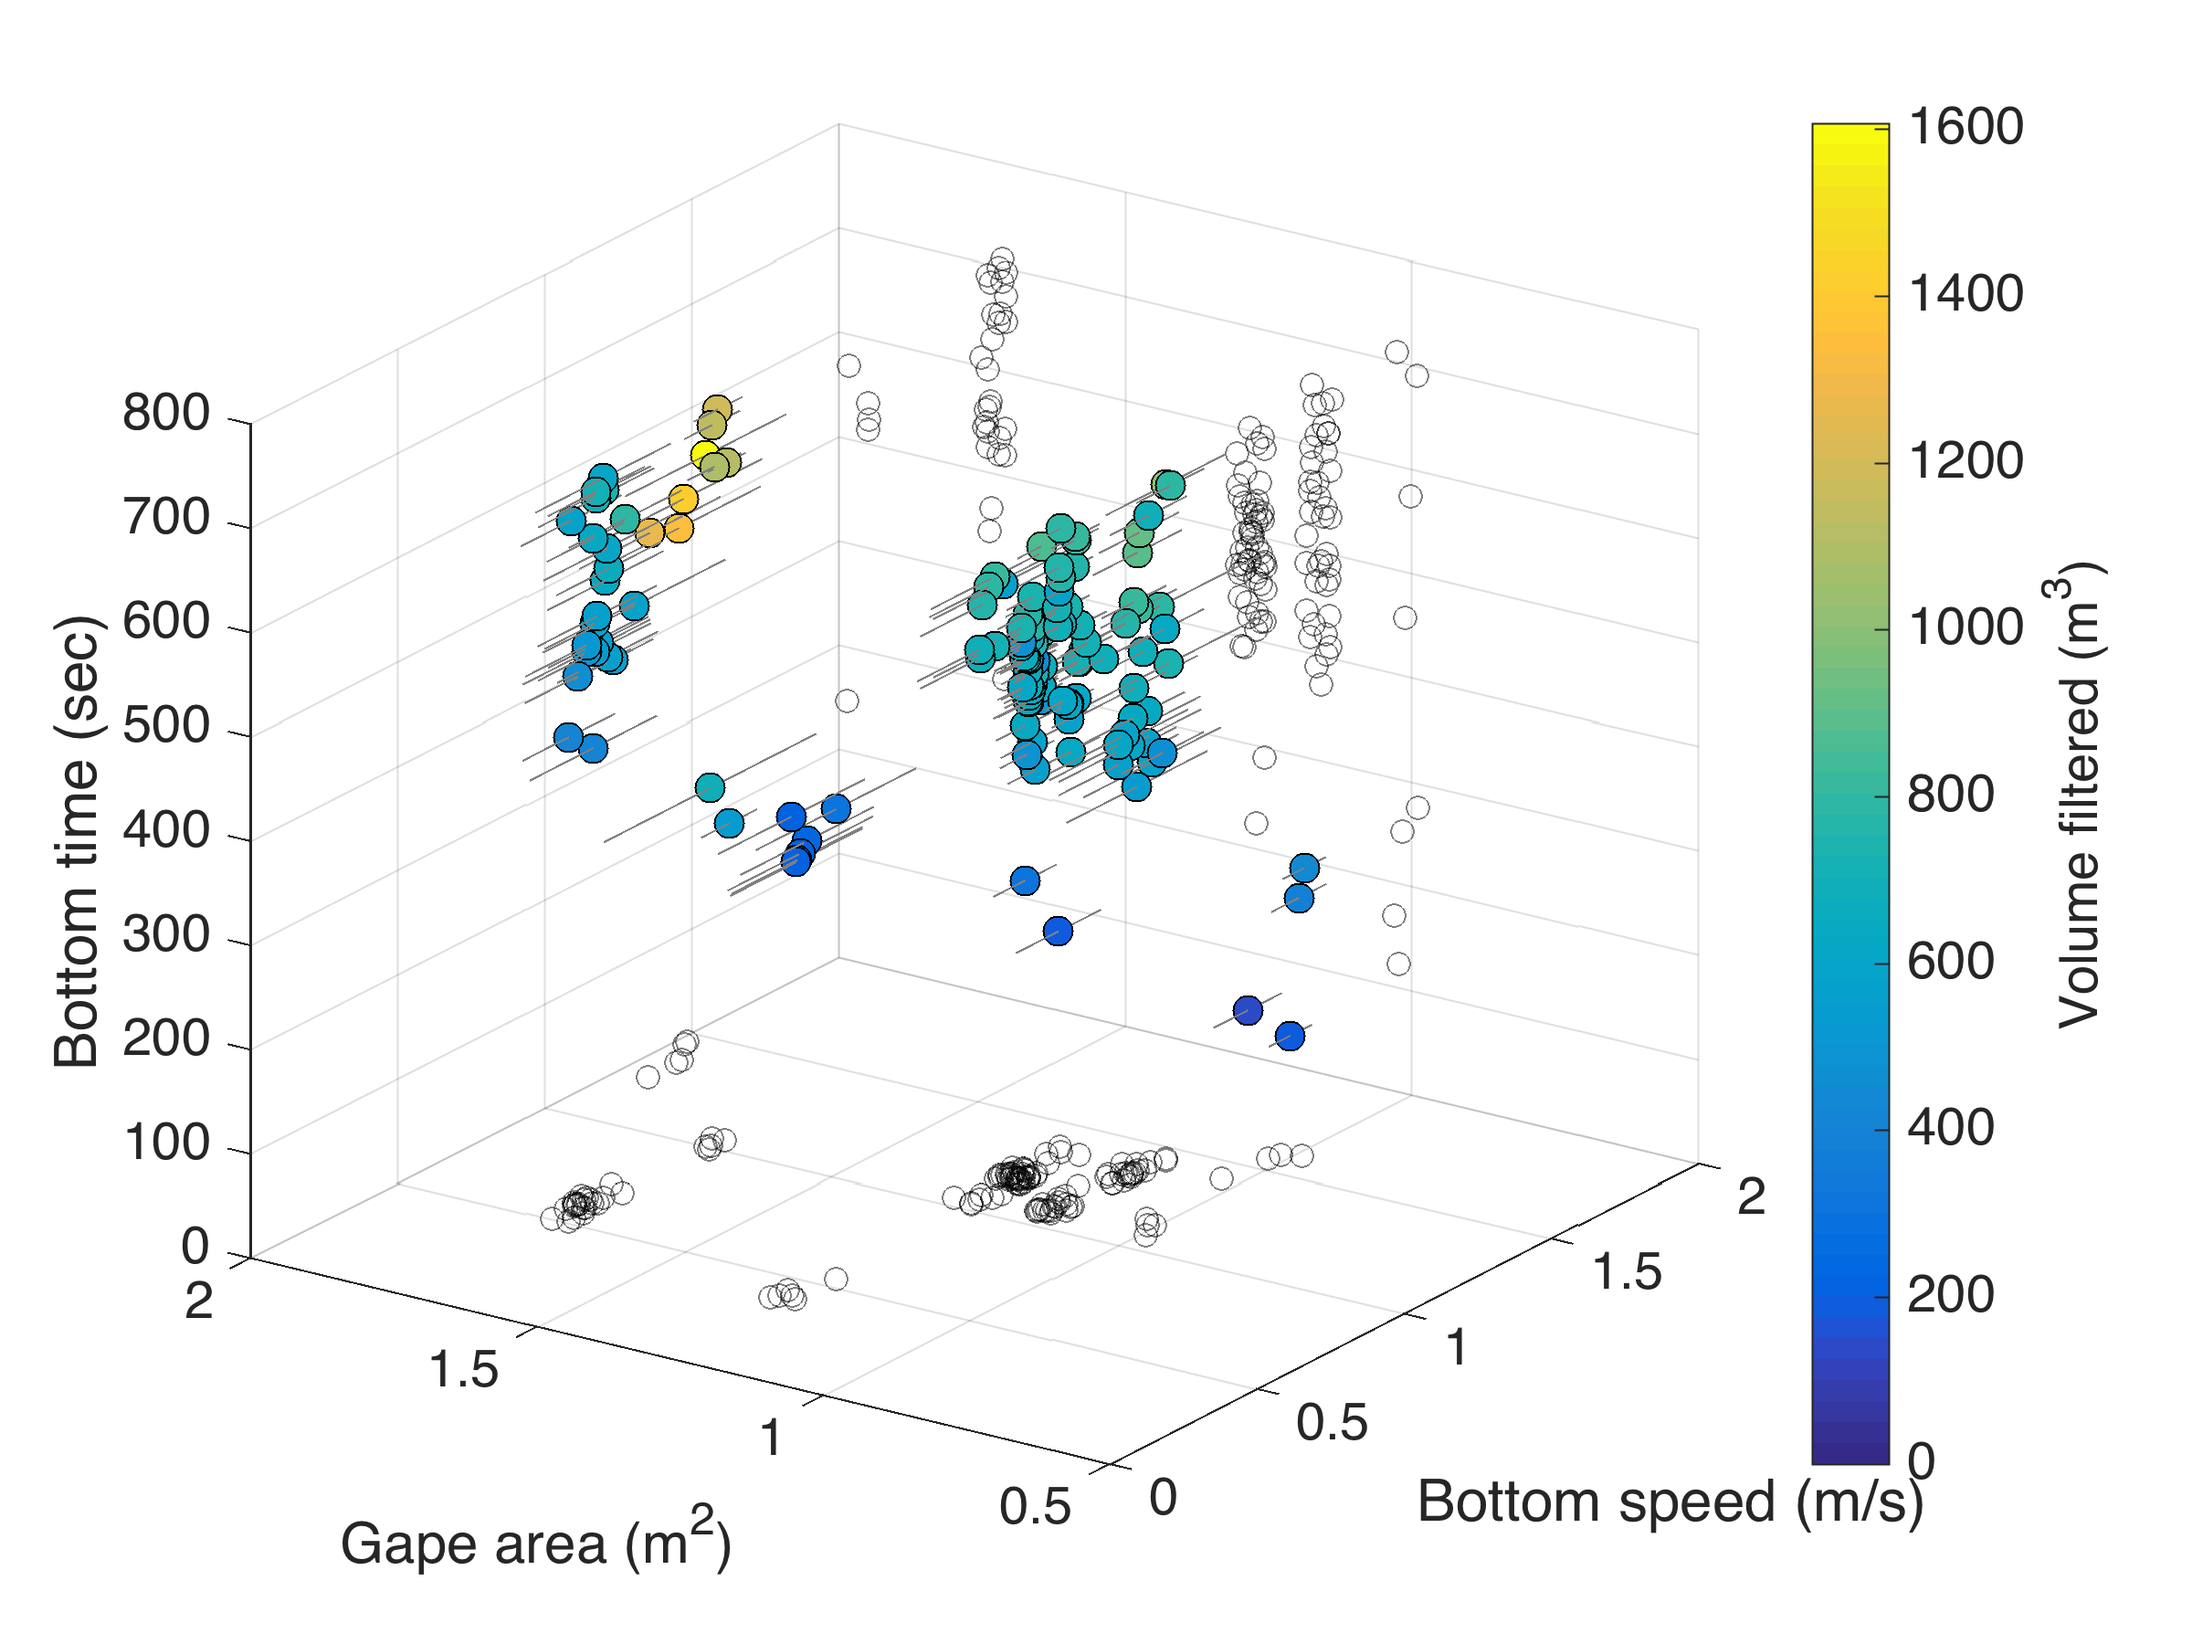
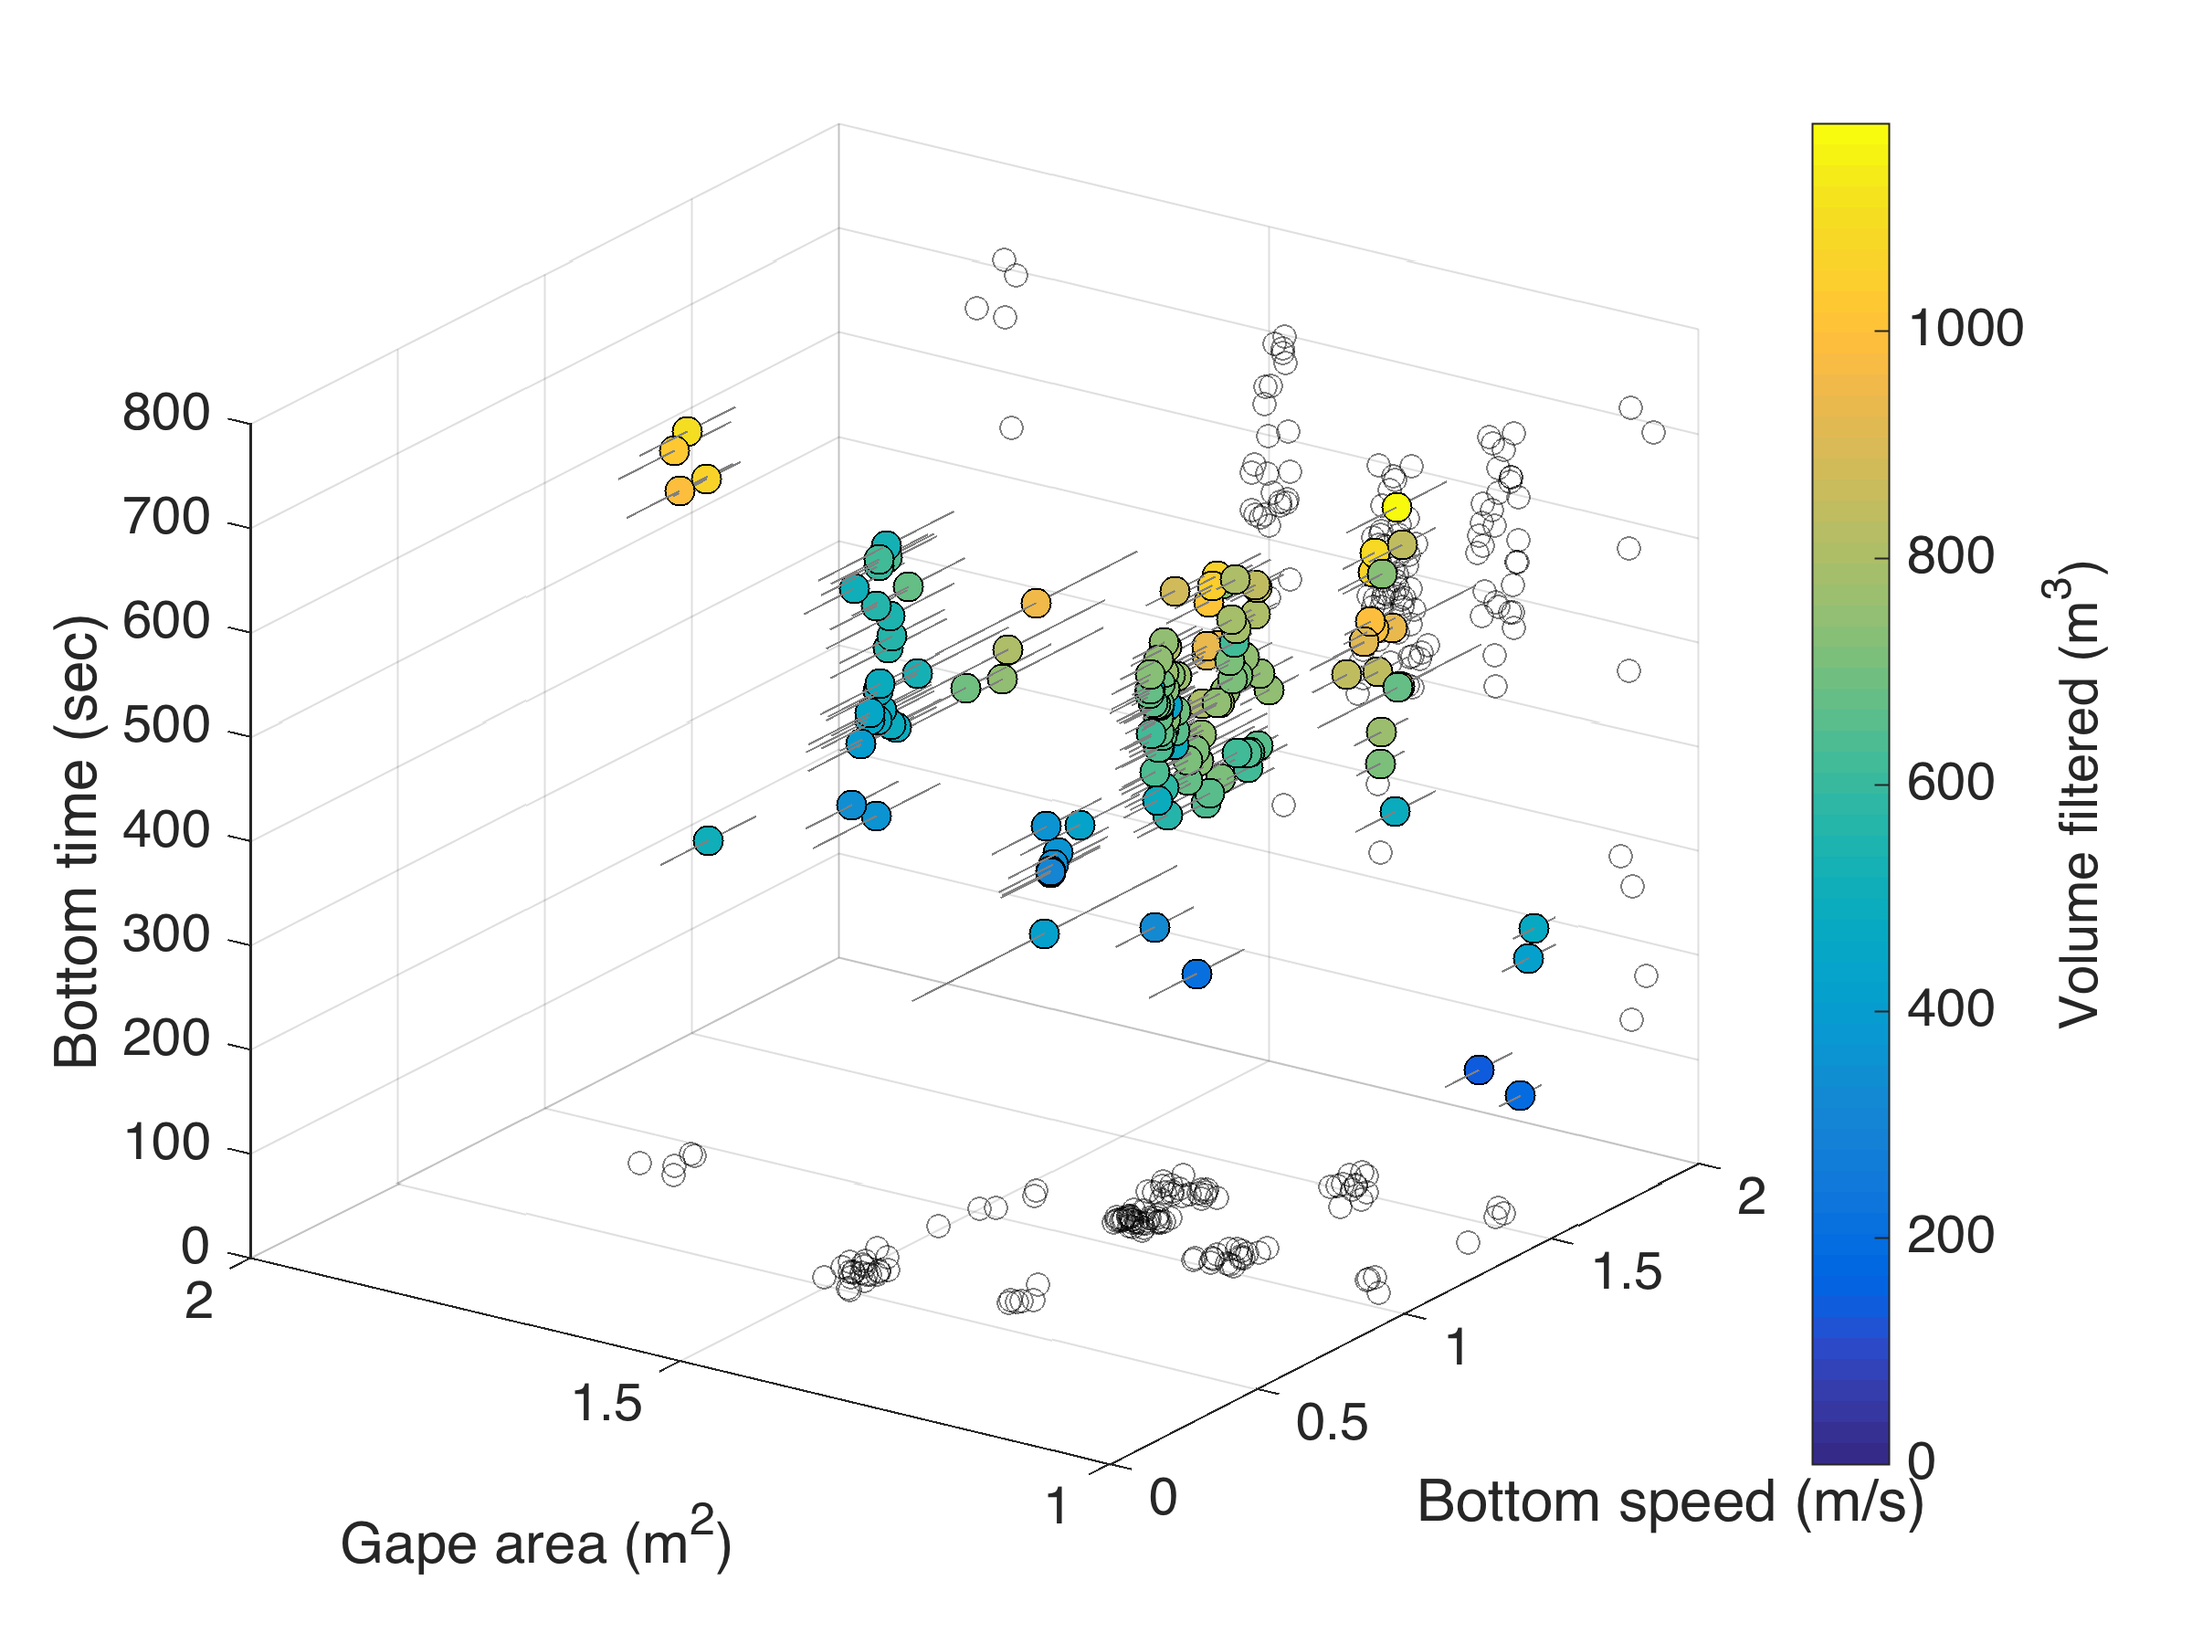
new numbers, fix gapes

diff --git a/NARW_totalVolume.m b/NARW_totalVolume.m
@@ -13,7 +13,7 @@ tagid = []; % tag ID counter
 d = []; % dive counter
 
 % DIVE-SPECIFIC
-tagid2 = []; 
+tagid2 = [];
 allbperdive = []; % number of bouts per dive
 allvperdive = []; % all volumes per dive
 alldur = []; % all dive durations
@@ -23,8 +23,8 @@ allstart = []; % all bottom start
 allend = []; % all bottom end
 allbtmdur = []; % all bottom duration
 allbtmspeed = [];
-sdbtmspeed = []; 
-alltort = []; 
+sdbtmspeed = [];
+alltort = [];
 mnboutdur = []; % mean bout duration for dives
 NF = []; % non-foraging dives
 for i = 1:size(tags,1)
@@ -58,12 +58,12 @@ for i = 1:size(tags,1)
             NF(end+1,1:2) = [j i];
         end
         alldur(end+1,1) = ddur(j);
-        tagid2(end+1,1) = i; 
+        tagid2(end+1,1) = i;
         if isempty(dive(j).vperblock) == 0
             allprop(end+1,1:2) = dive(j).prop; % proportion of time spent foraging
-            allstart(end+1) = dive(j).btm(1); 
-            allend(end+1) = dive(j).btm(end); 
-            allbtmdur(end+1) = dive(j).btm(end)-dive(j).btm(1); 
+            allstart(end+1) = dive(j).btm(1);
+            allend(end+1) = dive(j).btm(end);
+            allbtmdur(end+1) = dive(j).btm(end)-dive(j).btm(1);
             allbtmspeed(end+1) = mean(dive(j).flowEst(dive(j).btm)); % mean bottom speed
             sdbtmspeed(end+1) = std(dive(j).flowEst(dive(j).btm)); % sd
             mnboutdur(end+1) = mean([dive(j).clearingtime]);
@@ -71,21 +71,21 @@ for i = 1:size(tags,1)
             allprop(end+1,1:2) = NaN; % proportion of time spent foraging
             allstart(end+1) = NaN;
             allend(end+1) = NaN;
-            allbtmdur(end+1) = NaN; 
+            allbtmdur(end+1) = NaN;
             allbtmspeed(end+1) = NaN; % mean bottom speed
             sdbtmspeed(end+1) = NaN; % sd
-            mnboutdur(end+1) = NaN; 
+            mnboutdur(end+1) = NaN;
         end
         if isfield(dive,'tort') == 1
             if isempty(dive(j).tort) == 0
-            alltort(end+1,1:2) = dive(j).tort; 
-            else alltort(end+1,1:2) = NaN; 
+                alltort(end+1,1:2) = dive(j).tort;
+            else alltort(end+1,1:2) = NaN;
             end
-        else alltort(end+1,1:2) = NaN; 
+        else alltort(end+1,1:2) = NaN;
         end
-              
+        
         alldepth(end+1,1) = T(j,3);
-        allbperdive(end+1,1) = size(dive(j).stops,1); 
+        allbperdive(end+1,1) = size(dive(j).stops,1);
     end
     
     figure(10), subplot('position',[0.1 1.0-(i*0.11) 0.85 0.08]), hold on, box off
@@ -104,8 +104,8 @@ adjustfigurefont
 set(gcf,'position',[13     5   512   668],'paperpositionmode','auto')
 print('volfiltered_each.png','-dpng','-r300')
 
-allvols(isnan(allvols)) = 0; 
-allvperdive(isinf(allvperdive)) = 0; 
+allvols(isnan(allvols)) = 0;
+allvperdive(isinf(allvperdive)) = 0;
 
 round([mean(allvperdive(allvperdive>0)) std(allvperdive(allvperdive>0))]) % volumes per dive
 [mean(allvols(allvols > 0)) std(allvols(allvols > 0))] % volume per bout
@@ -113,7 +113,7 @@ round([mean(allvperdive(allvperdive>0)) std(allvperdive(allvperdive>0))]) % volu
 
 [mean(allbouts) std(allbouts)] % bout duration
 median(allpauses(allpauses > 0)) % median pause duration
-allspeeds(isinf(allspeeds)) = NaN; 
+allspeeds(isinf(allspeeds)) = NaN;
 [nanmean(allspeeds(allvols > 0)) nanstd(allspeeds(allvols > 0))] % speed during bout
 
 [min(allbperdive) max(allbperdive) mean(allbperdive) std(allbperdive)] % bouts per dive
@@ -121,20 +121,32 @@ allspeeds(isinf(allspeeds)) = NaN;
 [mean(alldepth(allvperdive > 1)) std(alldepth(allvperdive > 1))]
 [mean(alldepth(allvperdive < 1)) std(alldepth(allvperdive < 1))]
 
-%% 
-gapes = []; 
+%%
+gapes = [];
 for i = 1:length(tagid2)
-[gape, lnth] = getgape(tags{tagid2(i),6});
-gapes(:,i) = gape;
-lnths(:,i) = lnth; 
-end 
-figure(9), clf, hold on 
-for i = 1:length(allbtmspeed)
-h = plot3([allbtmspeed(i)-sdbtmspeed(i) allbtmspeed(i)+sdbtmspeed(i)],[gapes(i) gapes(i)],[(allprop(i,2)-allprop(i,1)).*alldur(i) (allprop(i,2)-allprop(i,1)).*alldur(i)],'color',[0.5 0.5 0.5]);
-alpha(h,0.5)
+    ID = tagid2(i);
+    switch ID
+        case 5
+            [gape,~,~,~,lnth] = getgape(tags{ID,6}, 1190);
+        case 9
+            [gape,~,~,~,lnth] = getgape(tags{ID,6}, 1210);
+        case 7
+            [gape,~,~,~,lnth] = getgape(tags{ID,6}, 1250);
+        case 8
+            [gape,~,~,~,lnth] = getgape(tags{ID,6}, 1250);
+        otherwise
+            [gape,~,~,~,lnth] = getgape(tags{ID,6});
+    end
+    gapes(:,i) = gape/100;
+    lnths(:,i) = lnth/100;
 end
-scatter3(allbtmspeed,gapes,(allprop(:,2)-allprop(:,1)).*alldur,60,allvperdive,'filled','markeredgecolor','k')
+figure(9), clf, hold on
 jit = rand(size(gapes));
+for i = 1:length(allbtmspeed)
+    h = plot3([allbtmspeed(i)-sdbtmspeed(i) allbtmspeed(i)+sdbtmspeed(i)],[gapes(i)+jit(i)/20 gapes(i)+jit(i)/20],[(allprop(i,2)-allprop(i,1)).*alldur(i) (allprop(i,2)-allprop(i,1)).*alldur(i)],'color',[0.5 0.5 0.5]);
+    alpha(h,0.5)
+end
+scatter3(allbtmspeed,gapes+jit/20,(allprop(:,2)-allprop(:,1)).*alldur,60,allvperdive,'filled','markeredgecolor','k')
 h = scatter(allbtmspeed,gapes+jit/20,'ko','markeredgealpha',0.5); % projection on bottom
 h = scatter3(2+zeros(length(gapes),1),gapes+jit/20,(allprop(:,2)-allprop(:,1)).*alldur,'ko','markeredgealpha',0.5);  % projection on wall
 % h = scatter3(allbtmspeed,2+zeros(length(gapes),1),(allprop(:,2)-allprop(:,1)).*alldur,'ko','markeredgealpha',0.5);  % projection on wall
@@ -142,32 +154,32 @@ xlabel('Bottom speed (m/s)')
 ylabel('Gape area (m^2)')
 zlabel('Bottom time (sec)')
 grid on
-h = colorbar; 
+h = colorbar;
 ylabel(h,'Volume filtered (m^3)')
 adjustfigurefont('Helvetica',14)
 view([-55.6000   23.6000])
 
 print('NARW_3dFiltVol.png','-dpng','-r300')
 
-%% dive duration and time spent foraging 
+%% dive duration and time spent foraging
 figure(2), clf, set(gcf,'position',[176 289 1107 384],'paperpositionmode','auto')
 subplot(131),
 h = scatter(alldur/60,allvperdive,50,gapes,'filled','markeredgecolor','k'); alpha(h,0.5)
-xlabel('Dive duration (min)'), ylabel('Total volume filtered (m^3)'), xlim([4 20]) 
+xlabel('Dive duration (min)'), ylabel('Total volume filtered (m^3)'), xlim([4 20])
 axletter(gca,'A')
-h = colorbar('position',[0.05 0.11 0.01 0.815]); 
+h = colorbar('position',[0.05 0.11 0.01 0.815]);
 ylabel(h,'Gape area (m^2)')
 
 subplot(132)
 h = scatter(alldur.*(allprop(:,2)-allprop(:,1))/60,allvperdive,50,gapes,'filled','markeredgecolor','k'); alpha(h,0.5)
-xlabel('Bottom duration (min)'), ylabel('Total volume filtered (m^3)'), 
+xlabel('Bottom duration (min)'), ylabel('Total volume filtered (m^3)'),
 adjustfigurefont('Helvetica',14), xlim([0 15])
 axletter(gca,'B')
 
-subplot(133), hold on 
+subplot(133), hold on
 for i = 1:length(alldepth)
     h = plot([alldepth(i) alldepth(i)],[allprop(i,1) allprop(i,2)],'k'); alpha(h,0.7)
-h = scatter(alldepth(i),allprop(i,2)-allprop(i,1),50,gapes(i),'filled','markeredgecolor','k'); 
+    h = scatter(alldepth(i),allprop(i,2)-allprop(i,1),50,gapes(i),'filled','markeredgecolor','k');
 end
 xlabel('Depth (m)'), ylabel('Proportion of dive')
 xlim([80 185])
@@ -175,7 +187,7 @@ axletter(gca,'C')
 adjustfigurefont('Helvetica',14)
 print('NARW_DiveProportion.png','-dpng','-r300')
 %%
-lm1 = fitlm(alldepth,allprop(:,1)) 
+lm1 = fitlm(alldepth,allprop(:,1))
 
 lm2 = fitlm(alldepth,allprop(:,2)) % all depth versus bottom proportion end
 
@@ -183,13 +195,13 @@ lm3 = fitlm(alldepth,allprop(:,2)-allprop(:,1)) % all depth versus bottom propor
 
 % get effect sizes with: h = plotEffects(lm1)
 % do predictions with [ypred,yci] = predict(lm1,82)
-%% 
+%%
 X = [allbtmspeed' gapes' alldur.*(allprop(:,2)-allprop(:,1))];
 lm_vol = fitlm(X,allvperdive)
 figure
-h = plotEffects(lm_vol) 
+h = plotEffects(lm_vol)
 %% proportional depth figure
-% figure(111), clf, hold on 
+% figure(111), clf, hold on
 % col = viridis(17); % ages 2 to 18
 % for i = 1:length(allprop)
 % plot(allprop(i,:),[alldepth(i) alldepth(i)],'color',col(tags{tagid2(i),6}-1,:))
@@ -230,8 +242,8 @@ round([nanmean(all_hr_rate) nanstd(all_hr_rate)])/3600 % in m/s
 [nanmean(allfsr) nanstd(allfsr)]
 
 % gape effect for discussion:
-tag2_vols = allvperdive(tagid2 == 2); 
-tag2_vols = tag2_vols(tag2_vols > 1); 
+tag2_vols = allvperdive(tagid2 == 2);
+tag2_vols = tag2_vols(tag2_vols > 1);
 [mean(tag2_vols) std(tag2_vols)]
 % SEE NARW_gapeEffect.m
 
@@ -245,7 +257,7 @@ for i = 1:length(tags)
     errorbar(tags{i,6}+rand(1),mean(allbouts(tagid == i)),std(allbouts(tagid == i)))
 end
 
-%% some tortuosity 
+%% some tortuosity
 figure
 plot(alltort(allvperdive > 1,1),mnboutdur(allvperdive > 1),'o')
 xlabel('Tortuosity'),ylabel('Mean bout duration (sec)')
@@ -253,7 +265,7 @@ lmtort2 = fitlm(alltort(allvperdive > 1,1),mnboutdur(allvperdive > 1))
 figure
 plot(alltort(allvperdive > 1,1),allvperdive(allvperdive > 1),'o')
 xlabel('Tortuosity'),ylabel('Total volume filtered (m^3)')
-lmtort1 = fitlm(alltort(allvperdive > 1,1),allvperdive(allvperdive > 1)); 
+lmtort1 = fitlm(alltort(allvperdive > 1,1),allvperdive(allvperdive > 1));
 %% bouts per dive statistics
 % % set nans first
 % cv_bouts_bydive = nan(10,39);
@@ -295,24 +307,24 @@ adjustfigurefont('Helvetica',16)
 ylim([0 5]), set(gca,'ytick',[0:5])
 print('NARW_Frate_dep_pres','-dpng','-r300')
 
-%% plot by bottom, by dive, by deployment 
-figure(100), hold on 
+%% plot by bottom, by dive, by deployment
+figure(100), hold on
 plot(repmat(1,length(allvperdive),1)+rand(length(allvperdive),1),3600*(allvperdive./allbtmdur),'o','linewidth',1.5) % on bottom
 plot(repmat(2,length(find(allvperdive>1)),1)+rand(length(find(allvperdive>1)),1),dbd_vrate(allvperdive > 1),'o','linewidth',1.5) % per dive
-plot(repmat(3,length(dep_filtrate),1)+rand(length(dep_filtrate),1),dep_filtrate,'o','linewidth',1.5) % per deployment 
+plot(repmat(3,length(dep_filtrate),1)+rand(length(dep_filtrate),1),dep_filtrate,'o','linewidth',1.5) % per deployment
 
-ylabel('Filtration rate (m^3/h)') 
+ylabel('Filtration rate (m^3/h)')
 adjustfigurefont('Helvetica',16)
 
 figure(101), clf, hold on
-scatterby(tagid2,3600*(allvperdive./allbtmdur),30,col(tagid2,:)); 
-scatterby(11+tagid2(find(allvperdive>1)),dbd_vrate(allvperdive > 1),30,col(tagid2(find(allvperdive>1)),:)); 
-scatterby(22+[1:10],dep_filtrate,30,col(1:10,:)); 
-ylabel('Filtration rate (m^3/h)') 
+scatterby(tagid2,3600*(allvperdive./allbtmdur),30,col(tagid2,:));
+scatterby(11+tagid2(find(allvperdive>1)),dbd_vrate(allvperdive > 1),30,col(tagid2(find(allvperdive>1)),:));
+scatterby(22+[1:10],dep_filtrate,30,col(1:10,:));
+ylabel('Filtration rate (m^3/h)')
 set(gca,'xtick',6:10:26,'xticklabels',{'On bottom','Per dive','Per deployment'})
 adjustfigurefont('Helvetica',16)
 
 % extend to full day?
 for i = 1:length(dep_filtrate)
-day_filtrate = dep_filtrate(i)*(24/(gettagdur(tags{i})/3600));
-end 
+    day_filtrate = dep_filtrate(i)*(24/(gettagdur(tags{i})/3600));
+end

diff --git a/getgape.m b/getgape.m
@@ -1,4 +1,4 @@
-function [gapearea,ci_gapes,width,ci_width] = getgape(age,lnth) 
+function [gapearea,ci_gapes,width,ci_width,lnth] = getgape(age,lnth) 
 % get estimated gape area for NARW of a given age
 % inputs: 
 %      age: age of animal (years)
@@ -8,6 +8,7 @@ function [gapearea,ci_gapes,width,ci_width] = getgape(age,lnth)
 %      ci_gape: 95% confidence interval around gape estimate, propagated
 %      width: width of snout based on Miller et al
 %      ci_width: 95% confidence interval around width estimate
+%      lnth: length (either estimated or output from Moore)
 
 if nargin <2
 % estimate length of whale from age (Moore et al. 2004)
